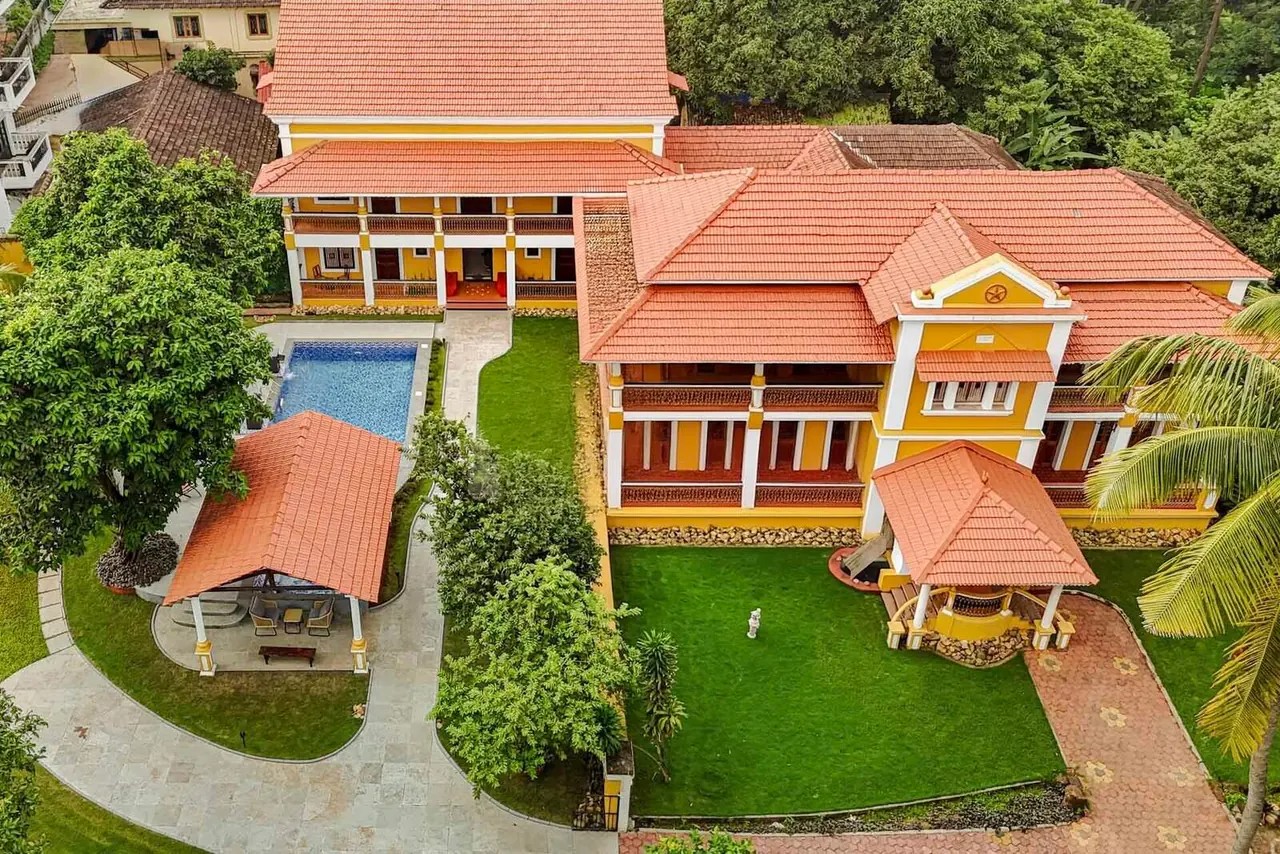
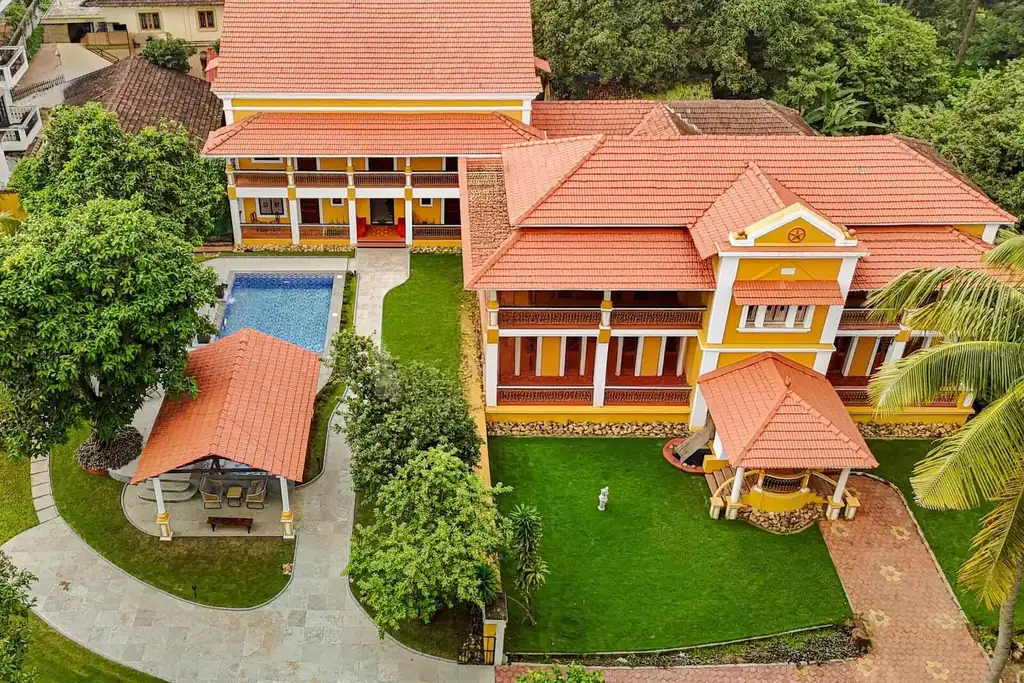
Enforce max-width media query for mobile WebP hero image preload

diff --git a/src/routes/__root.tsx b/src/routes/__root.tsx
@@ -120,9 +120,16 @@ export const Route = createRootRouteWithContext<{ queryClient: QueryClient }>()(
         rel: "preload",
         as: "image",
         type: "image/webp",
+        href: chicoHeroImageMobileWebp,
+        media: "(max-width: 768px)",
+        fetchPriority: "high",
+      },
+      {
+        rel: "preload",
+        as: "image",
+        type: "image/webp",
         href: chicoHeroImageDesktopWebp,
-        imageSrcSet: `${chicoHeroImageMobileWebp} 700w, ${chicoHeroImageDesktopWebp} 1280w`,
-        imageSizes: "100vw",
+        media: "(min-width: 769px)",
         fetchPriority: "high",
       },
       { rel: "preconnect", href: "https://fonts.googleapis.com" },

diff --git a/src/routes/index.tsx b/src/routes/index.tsx
@@ -338,11 +338,8 @@ function Home() {
 
         {isDefaultHeroImage ? (
           <picture>
-            <source
-              type="image/webp"
-              srcSet={`${chicoHeroImageMobileWebp} 700w, ${chicoHeroImageDesktopWebp} 1280w`}
-              sizes="100vw"
-            />
+            <source media="(max-width: 768px)" srcSet={chicoHeroImageMobileWebp} type="image/webp" />
+            <source media="(min-width: 769px)" srcSet={chicoHeroImageDesktopWebp} type="image/webp" />
             <img
               src={heroImageSrc}
               alt="Luxury Goan villa with terracotta architecture, private pool and tropical gardens"
